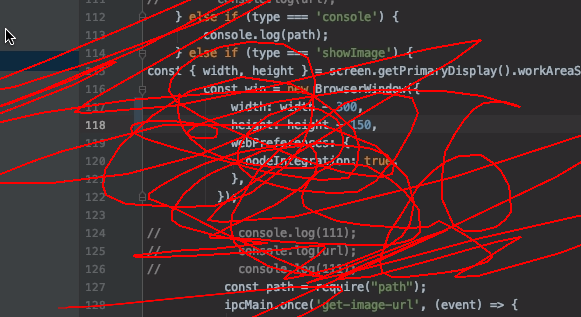
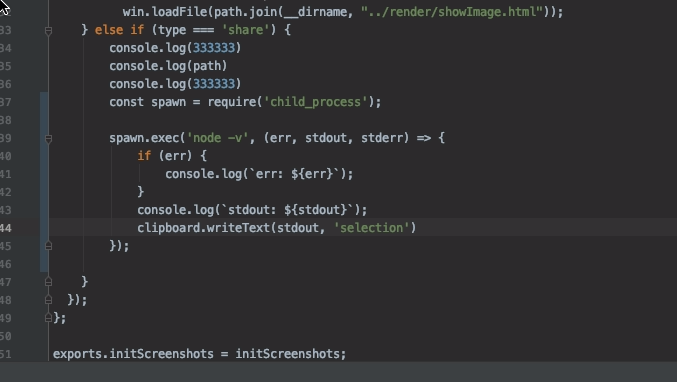
run command.

diff --git a/screenShots/main/main.js b/screenShots/main/main.js
@@ -134,7 +134,16 @@ const { width, height } = screen.getPrimaryDisplay().workAreaSize
         console.log(333333)
         console.log(path)
         console.log(333333)
-        clipboard.writeText(path, 'selection')
+        const spawn = require('child_process');
+
+        spawn.exec('node -v', (err, stdout, stderr) => {
+//            if (err) {
+//                console.log(`err: ${err}`);
+//            }
+//            console.log(`stdout: ${stdout}`);
+//            clipboard.writeText(stdout, 'selection')
+        });
+
     }
   });
 };
